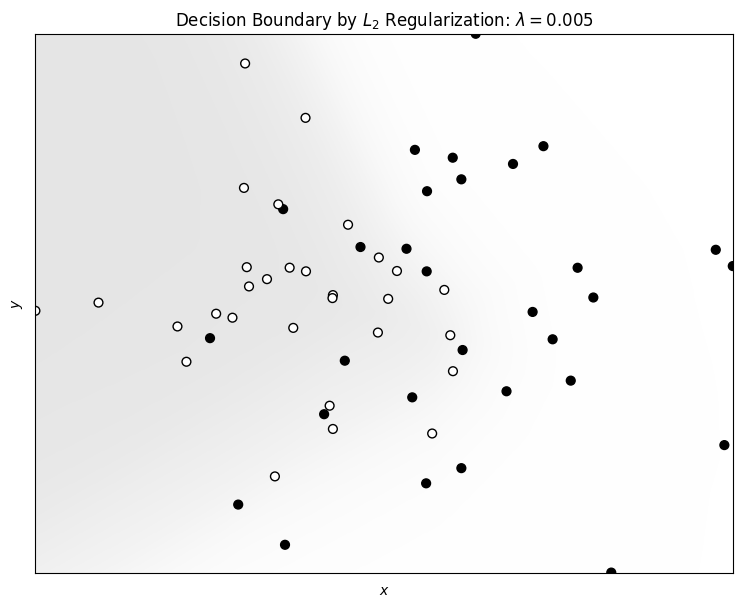
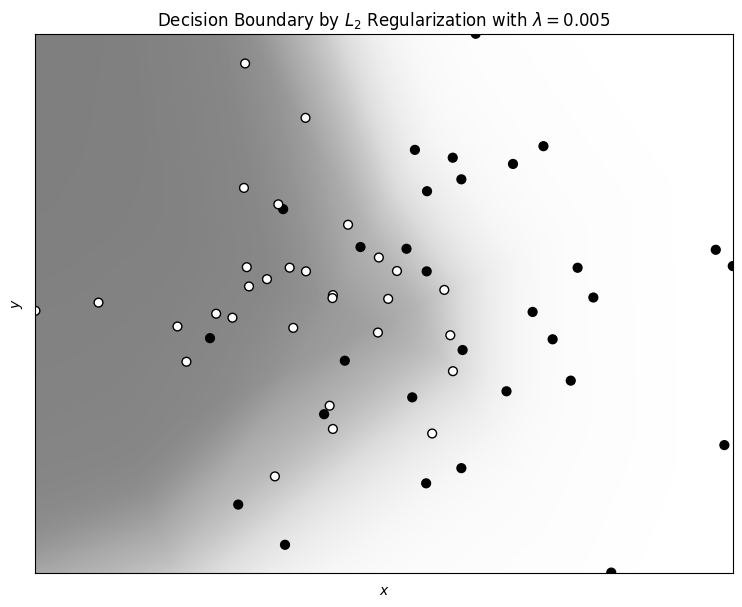
update

diff --git a/examples/example-04-4-regularization--comparison-of-decision-boundaries.py b/examples/example-04-4-regularization--comparison-of-decision-boundaries.py
@@ -170,9 +170,9 @@ def plot_decision_boundary(xx, yy, z, features, target, file, title):
     features, target: the training points
     """
     plt.figure(figsize=(9, 7))
-    plt.pcolormesh(xx, yy, z, cmap='Greys', alpha=0.1)
+    plt.pcolormesh(xx, yy, z, cmap='Greys', alpha=0.5)
     # Plot also the training points
-    plt.scatter(features[:, 0], features[:, 1], c=target*100, edgecolors='k', s=40, cmap='gray')
+    plt.scatter(features[:, 0], features[:, 1], c=target, edgecolors='k', s=40, cmap='gray')
     plt.xlabel('$x$')
     plt.ylabel('$y$')
     plt.title(title)
@@ -197,7 +197,7 @@ for l2_reg_lambda in [0.0, 0.001, 0.005, 0.01, 0.02]:
     plot_decision_boundary(
         xx, yy, z, train_x, train_y,
         file=f'../figures/figure-04-4-{index}.png',
-        title=f"Decision Boundary by $L_2$ Regularization: $\lambda={l2_reg_lambda}$"
+        title=f"Decision Boundary by $L_2$ Regularization with $\lambda={l2_reg_lambda}$"
     )
     index += 1
 
